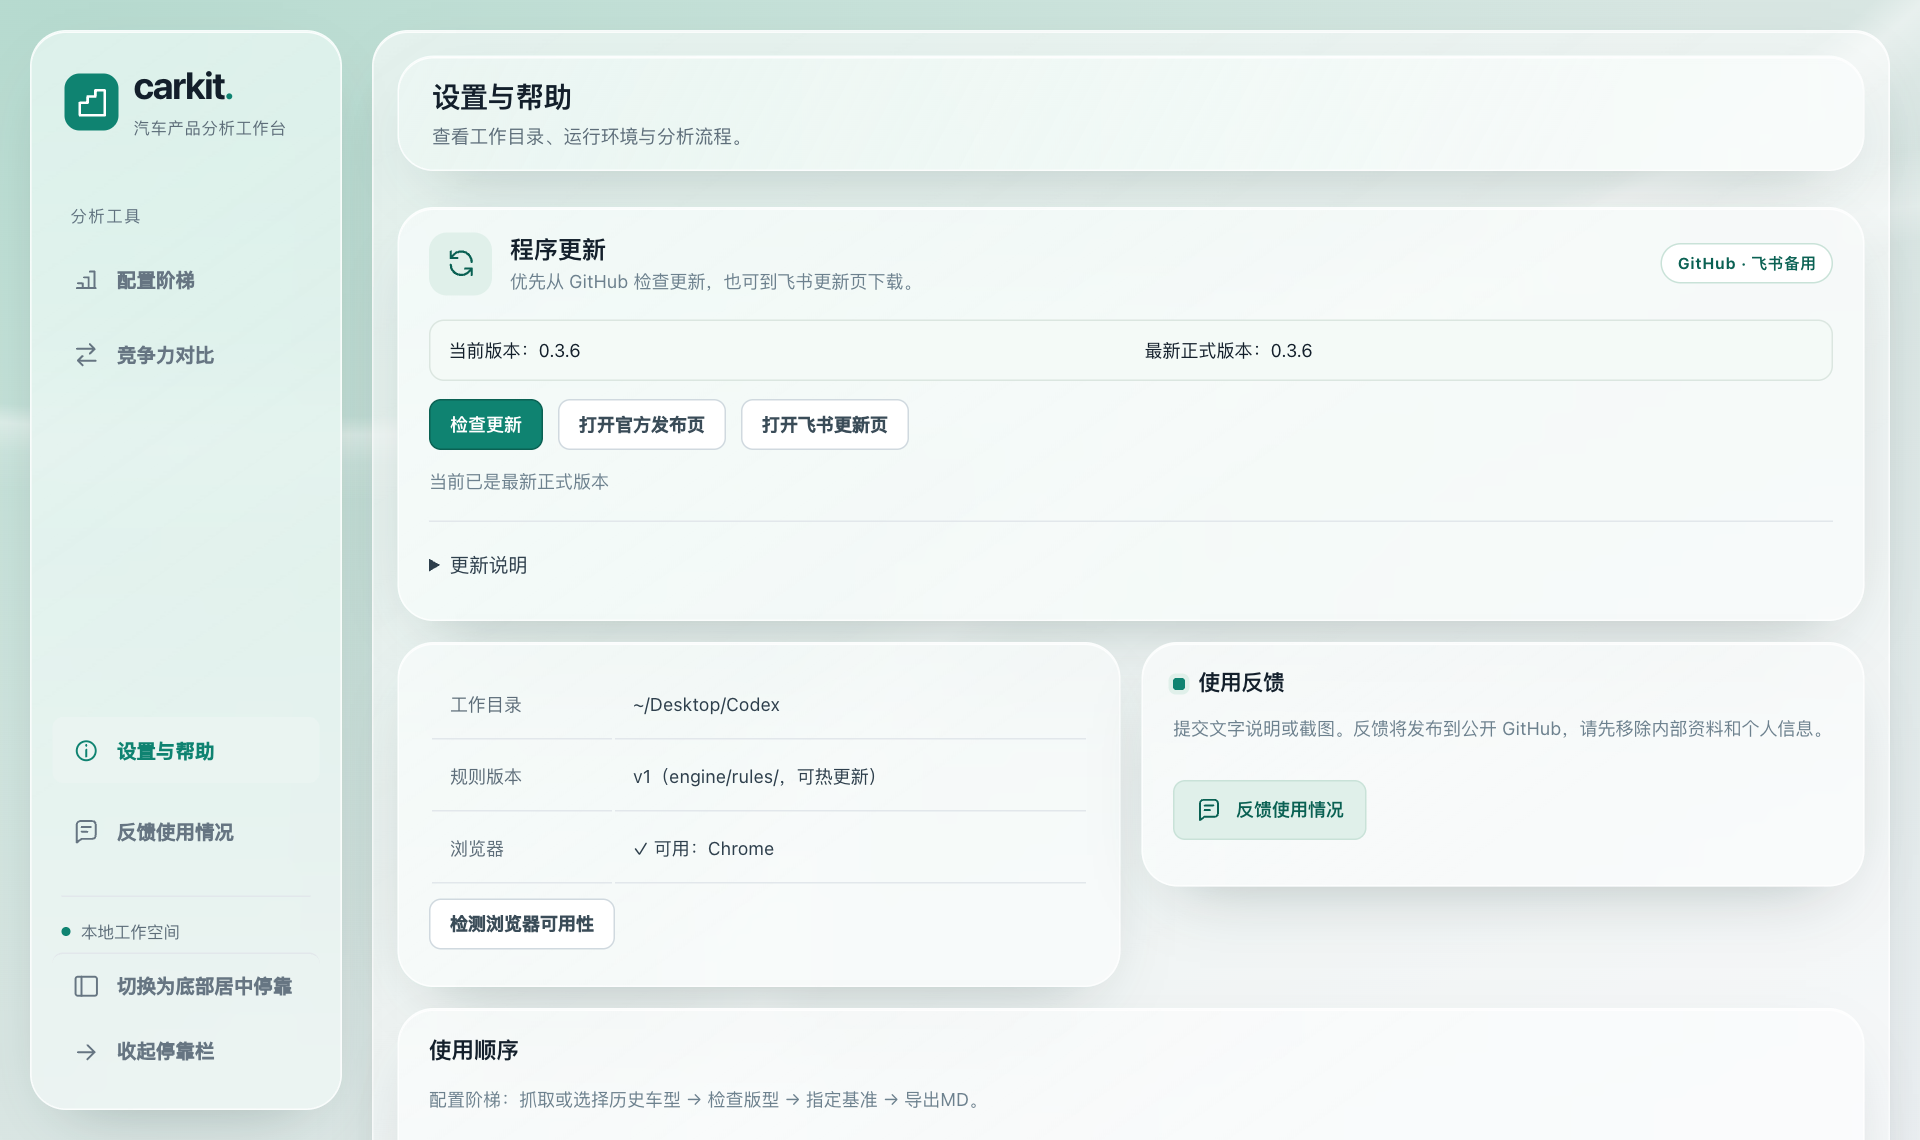
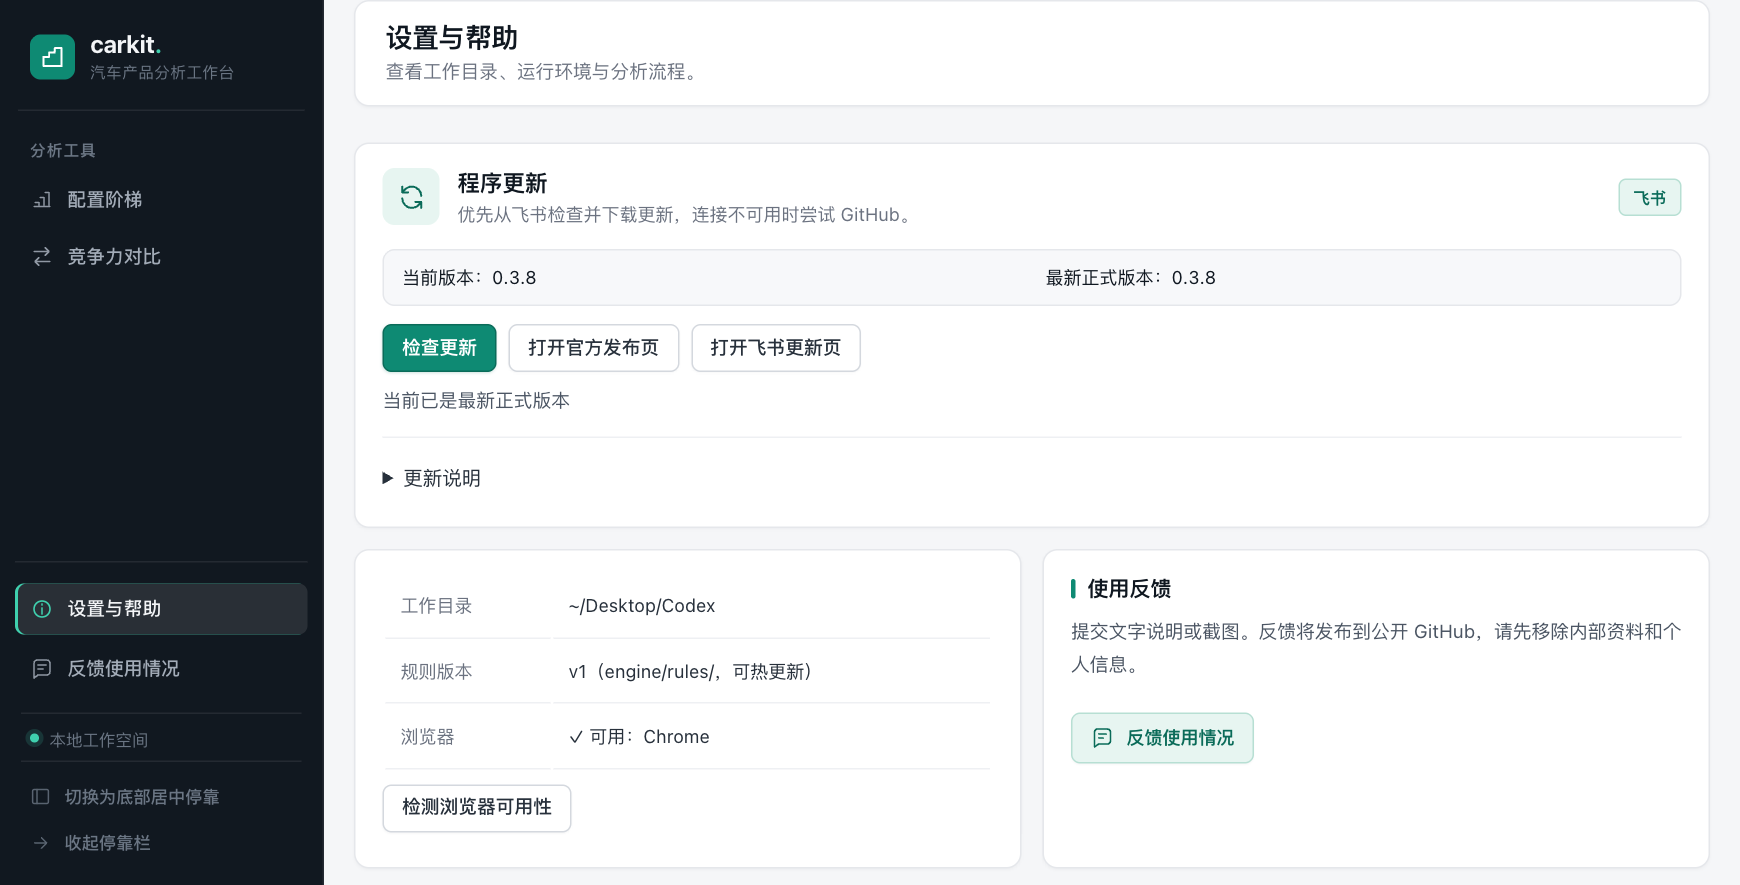
更新 Carkit README 和产品说明

diff --git a/README.md b/README.md
@@ -1,119 +1,96 @@
 # Carkit · 汽车产品分析工作台
 
-Carkit 是一款车型配置对比工具。想知道同一款车的高配多了什么，或者两款车看起来价格接近、配置差在哪，都可以用它来整理。程序还能按你的计价规则把差异折成金额，再把两车的价格差一起算进去。
+[下载最新版（GitHub）](https://github.com/a18012239736-rgb/carkit/releases/latest) · [飞书下载与更新说明](https://my.feishu.cn/wiki/RbVTwWOJFiCjOukyBO8csx2Rnwd) · [反馈问题](https://github.com/a18012239736-rgb/carkit/issues)
 
-- **看同一车系的不同版本（版型）**：从汽车之家读取配置，选一个版本作基准，看其他版本多了什么、少了什么、还能选装什么。
-- **对比两款车**：导入本品配置 PPT 或手动录入，选定两侧版型并按统一规则赋值；也可以比较两款竞品。
-- **交付或复用结果**：导出 Markdown、Excel，或保存对比方案，下次接着改。
+## 关于 Carkit
 
-程序默认使用深色固定左侧文字菜单，名称常显；也可以通过菜单底部的位置按钮切换为屏幕底部居中的深色浮动命令栏。底部模式只显示图标，悬停或用键盘聚焦时名称显示在上方，当前页图标下方有高亮圆点。程序会记住选择的位置；收起按钮可暂时隐藏菜单。第一次打开时，只想看一款车就从「配置阶梯」开始；手里已有本品配置 PPT，就进入「竞争力对比 → 本品配置」。下面的界面截图使用虚构车型，价格和配置仅用来演示。
+Carkit 是一款面向汽车产品、竞品和上市分析的桌面工具。做单车分析时，可以从汽车之家读取一款车的配置，看各个版型相对基准多了什么、少了什么。做竞品对比时，可以导入自己的产品配置，手动选出要比的两款版型，按同一套规则把配置差异折算成金额。结果可以导出成 Excel 或 Markdown，也可以保存成方案，下次接着做。
+
+工作数据默认保存在本机。程序里的版本号、工作目录、检查更新和反馈入口都在「设置与帮助」。下面的车型、配置、价格和更新状态均为界面示例。
 
 ## 下载与安装
 
-从 [GitHub 最新正式发布页](https://github.com/a18012239736-rgb/carkit/releases/latest) 的 **Assets（附件）** 选择对应文件。`<版本>` 会显示为实际版本号。
+打开 [GitHub 最新发布页](https://github.com/a18012239736-rgb/carkit/releases/latest)，在 **Assets（附件）** 中选对应文件。GitHub 连不上时，可以从 [飞书更新页](https://my.feishu.cn/wiki/RbVTwWOJFiCjOukyBO8csx2Rnwd) 下载。`<版本>` 在文件名里会换成实际版本号。
 
-| 电脑 | 下载文件 | 怎么用 |
+| 你的电脑 | 选哪个文件 | 怎么打开 |
 | --- | --- | --- |
-| Windows x64，日常使用 | `carkit-<版本>-setup.exe` | 双击安装。后续可以在程序内下载并安装更新。 |
-| Windows x64，免安装 | `carkit-<版本>.exe` 或 `carkit.exe` | 双击运行。更新时下载并启动新版 EXE。 |
-| Mac，Apple 芯片（M 系列） | `carkit-<版本>-macos-arm64.dmg` | 打开 DMG，把 `carkit.app` 拖入「应用程序」。 |
+| Windows x64，日常使用 | `carkit-<版本>-setup.exe` | 双击安装。之后可以在程序里下载并安装新版。 |
+| Windows x64，免安装 | `carkit-<版本>.exe` 或 `carkit.exe` | 双击运行。两种文件名对应同一个便携包。 |
+| Mac，Apple 芯片（M 系列） | `carkit-<版本>-macos-arm64.dmg` | 打开 DMG，把 `carkit.app` 拖到「应用程序」。 |
 
-不知道 Mac 用哪种芯片时，打开「 → 关于本机」，查看「芯片」或「处理器」。发布的 macOS 包尚未经过 Apple 公证；如果公司设备限制安装，请联系管理员。
+安装包可直接使用，无需另装 Python。Windows 界面依赖 **WebView2 Runtime**。读取汽车之家配置需要 Edge 或 Chrome，可以在「设置与帮助」点击「检测浏览器可用性」。Mac 可通过「 → 关于本机」确认芯片类型，目前提供 Apple 芯片版，安装包尚未经过 Apple 公证。
 
-使用安装包无需另外安装 Python。Windows 界面依赖 **WebView2 Runtime**；在线读取汽车之家配置需要 **Edge 或 Chrome**，可在「设置与帮助」点击「检测浏览器可用性」。程序默认使用桌面上的 `Codex` 文件夹，实际路径也可在「设置与帮助」查看。
+## 配置阶梯 · 看同一款车的高低配差异
 
-## 配置阶梯
+![配置阶梯示例：并排查看版型指导价、价差、配置变化和选装](docs/images/配置阶梯.png)
 
-![配置阶梯：并排查看各版型指导价及相对基准的配置变化](docs/images/配置阶梯.png)
+1. 在「配置阶梯」输入车型名或汽车之家配置页网址，点击「搜索车型」。出现「选择抓取条件」时，按需选年款等条件，再点「开始抓取」。已读取过的车型可以从「打开历史车型」找回。
+2. 在「确认版型与比较基准」中勾选要输出的版型，选择「基本版型」，再给其他版型指定基准。多个版型可以共用同一个基准，也可以各自选择参照。
+3. 点击「查看配置阶梯图」，查看指导价、相对基准的价差和配置变化。卡片上的「完整配置」可以展开本版型的配置，选装在卡片下方单列。需要发给同事时，可导出 Markdown 或 Excel。
 
-1. **选车。** 在「配置阶梯」输入车型名称、车系编号或汽车之家配置页网址，点击「搜索车型」。按提示选择车系；出现「选择抓取条件」时，选好年款等条件后点击「开始抓取」。已有记录时，也可以直接点击「打开历史车型」。
-2. **确认读到的配置。** 如果汽车之家要求验证，在打开的浏览器里完成验证，等配置表加载后回到程序，点击「验证后继续读取」。需要逐项核对时，点击「查看完整配置」。
-3. **选输出和比较基准。** 在「确认版型与比较基准」勾选要输出的版型，再选择「基本版型」和后续版型各自的比较基准。例如，舒适型可以与基础型比较，高配型可以与舒适型比较。也可以让多个版型都和同一个基准比较。
-4. **查看或导出。** 在「预览与导出」点击「查看配置阶梯图」。卡片顶部是指导价（万元），下面按所选基准列出配置增加和取消，选装单列。点击「导出配置阶梯 Markdown」或「导出 Excel」保存结果。
+版型太多时，可以拖动「左右查看」滑杆，或用卡片上的箭头调整显示顺序。想改变导出的比较关系，请回到版型设置调整基准。
 
-如果不想在结果里看到某些项目，展开「不展示的配置」，搜索或按分类勾选，再点击「保存不展示清单」。同一工作目录里的车型共用这份清单；阶梯图及两种导出格式一起生效，原始配置和竞争力赋值不受影响。已生成的结果需重新查看或导出。
+想精简结果时，展开「不展示的配置」，**勾选要隐藏的配置**，点击「保存不展示清单」，再打开阶梯图或重新导出。这份清单应用于同一工作目录内各车型的阶梯图和导出。原始配置、竞争力赋值和已导出的文件保留原状。
 
-版型太多时，可拖动窗口底部的「左右查看」滑杆。卡片上的「完整配置」可原位展开该版型的原始配置，收起后回到原来的位置。卡片左移或右移只调整当前显示顺序；要改变导出的比较关系，请回到版型设置。
+## 竞争力对比 · 算两款车差多少钱
 
-## 竞争力对比
+![竞争力对比示例：配对版型后查看配置优势、拉平指导价优势和综合竞争力](docs/images/竞争力对比.png)
 
-![竞争力对比：版型配对后的配置优势、拉平指导价优势和综合竞争力](docs/images/竞争力对比.png)
+「本品」是你正在评估的车，「竞品」是用来作参照的车。已有两款竞品时，也可以直接互比。
 
-「本品」是你正在评估的车型，「竞品」是拿来作参照的车型。没有本品资料时，也可以直接拿两款已经读取过的车型互相比。
+1. **准备车型。** 先在「配置阶梯」读取竞品。自己的车型可在「竞争力对比 → 本品配置」导入 PPT，也可手动录入。导入时选中配置阶梯页，点击「解析这一页」，核对版型、价格和继承关系，展开完整配置确认后保存。指导价以万元填写，例如 `11.98`。待确定的价格和 TP 价格需要先核对口径。选装可在版型配置中每行填写一项，单独展示，不参与赋值。
+2. **配对版型。** 回到「对比」页签，选「本品 vs 竞品」或「竞品 vs 竞品」。左侧是要评估的车，右侧是参照。只挑实际需要比较的版型，想同时算多组时点「添加配对组」。
+3. **填实际比较的底价。** 两侧底价按同一口径填写，单位是元，例如 `110000`。底价可留空。此时可以看配置优势，双方指导价都填好时也可以看拉平指导价优势。
+4. **核对并交付。** 点击「开始对比」，查看顶部结论和对比表。「待核清单」会提示需要补充的项目。「配置项判定明细 → 查看依据」可核对原文、识别值、标配或选装、人工修正及计算规则。你可以修正配置后重算，或把结果导出成 Markdown 或 Excel。
+5. **下次继续。** 点「保存当前方案」保留配置、配对、价格、规则和结果。下次用「打开已保存方案」载入工作副本后继续改或另存。
 
-「竞争力对比」里有「对比」「本品配置」「赋值规则」三个子页签，可在同一个工作区准备数据、配对版型和调整规则。
+### 怎么读这三个金额
 
-1. **准备车型。** 竞品可从「配置阶梯」抓取后复用。要比较本品，在「竞争力对比 → 本品配置」点击「导入本品PPT…」或「手动添加本品配置」。如果导入 PPT，先选配置阶梯页，再点「解析这一页」。核对版型、价格口径和继承关系，点「展开为完整配置，进入核对」，检查完整配置并勾选确认后，点「确认并保存本品配置」。指导价以万元填写，例如 `11.98`；标为 TP 价格或未确定的价格不会直接当作指导价使用。
-2. **选择左右侧。** 回到「对比」子页签，选择「本品 vs 竞品」或「竞品 vs 竞品」，左侧是要判断的车型，右侧是参照。可用「修改本品配置」或「修改竞品配置」补充和更正数据，保存修正后再对比。
-3. **手动配对。** 选择双方要比较的版型；用「添加配对组」一次比较多组。要算拉平底价优势，按同一口径填写两边的底价，单位是元，例如 `110000`。底价可以留空，此时仍可看配置优势；两边指导价齐全时也能看拉平指导价优势。
-4. **运行并核对。** 点击「开始对比」。先看「待核清单」和「竞争力对比表」，再展开「配置项判定明细」，通过「查看依据」核对原文、标配或选装状态、识别值、人工修正和计价规则。改动配置、配对、价格或规则后，重新运行再导出。
-5. **导出或继续做。** 结果可导出 Markdown 或 Excel。填写方案名称并点击「保存当前方案」，可保存本次配置、配对、价格、规则和结果；下次从「打开已保存方案」载入独立工作副本，再修改或另存。
+正数表示左侧占优，负数表示右侧占优。以上图第一组为例，左侧少了 800 元的配置价值，指导价便宜 3,000 元，填入的底价便宜 1,500 元。
 
-### 怎么读结果
-
-金额为正表示左侧占优，为负表示右侧占优。以上图第一组为例：左侧舒享版少了电动后备箱，按规则少 800 元配置价值；但左侧指导价便宜 3,000 元，填入的底价也便宜 1,500 元。三个数字回答的是不同问题：
-
-| 指标 | 想知道什么 | 图中结果 |
+| 指标 | 怎么理解 | 示例 |
 | --- | --- | ---: |
-| 配置优势 | 只看配置，左侧多值或少值多少钱？ | −800 元 |
-| 拉平指导价优势 | 把指导价差也算进去，左侧还占优吗？ | −800 + 3,000 = 2,200 元 |
-| 综合竞争力（拉平底价优势） | 按这次填的底价算，左侧还占优吗？ | −800 + 1,500 = 700 元 |
+| 配置优势 | 左侧的配置价值比右侧多或少多少 | −800 元 |
+| 拉平指导价优势 | 配置优势 + 右侧指导价 − 左侧指导价 | 2,200 元 |
+| 综合竞争力（拉平底价优势） | 配置优势 + 右侧底价 − 左侧底价 | 700 元 |
 
-`✕` 表示没有该配置，`[待定]` 表示还未确认。待定和选装不按标配计入赋值；数量未知、未匹配或没有计价规则的项目，可到「待核清单」检查。
+这三个金额用来分析配置和价格差异。比较前，请确认两侧价格的统计口径一致。选装和 `[待定]` 配置不会当作标配计价。未识别、数量不明或缺少规则的项目可先到「待核清单」核对。
 
-## 赋值规则
+### 如何改计价规则
 
-在「竞争力对比 → 赋值规则」可调整金额、档位、单位价格和阈值，点「保存并立即应用」后用于后续对比。也可以「从 Excel / JSON 导入…」「保存并导出规则 Excel」或「恢复内置默认值」。灰色项目不纳入本轮计价，原始配置仍可查看。
+进入「竞争力对比 → 赋值规则」，修改某项配置的金额或计价档位，点「保存并立即应用」后再重算。也可以从 Excel 或 JSON 导入规则、导出规则 Excel，或恢复内置默认值。
 
-例如，内置规则中普通电动后备箱计 800 元，标配感应功能额外计 400 元，位置记忆不另加价。修改规则后，实际结果以对比时使用的规则和配置为准。
+例如，默认普通电动后备箱计 800 元，标配感应功能额外计 400 元，位置记忆不另加价。对比时以当时使用的规则和确认过的配置为准。
 
-## 程序更新
+## 检查更新
 
-![程序更新：查看当前版本、检查新版并选择 GitHub 或飞书入口](docs/images/程序更新.png)
+![程序更新：在设置与帮助查看版本、检查更新及打开下载页](docs/images/程序更新.png)
 
-程序启动后优先从飞书更新文档检查正式版，连接不可用时尝试 GitHub；也可在「设置与帮助 → 程序更新」点击「检查更新」。发现版本号更高的正式版才会提示更新；「更新说明」可查看这一版改了什么，渠道标记会显示本次使用飞书还是 GitHub。程序会验证飞书更新信息的签名和安装包的 SHA-256。
+程序启动时会检查更新。飞书是首选更新渠道，飞书连接不可用时会尝试 GitHub。也可以到「设置与帮助 → 程序更新」点「检查更新」。出现更高版本号的正式版才会提示升级。展开「更新说明」可看这一版改了什么。
 
-暂时不想升级时，点击提醒横幅中的「忽略此版本」。程序会记住这个版本，重新打开也不再提醒；后续出现更高版本时会再次提示。想恢复提醒，可进入「设置与帮助 → 程序更新」点击「恢复提醒」。忽略提醒后仍可手动检查和下载更新。
+- **Windows 安装版**：保存工作后点「下载并安装」。程序校验发布清单和安装包，完成安装后会用原工作目录重新打开。
+- **Windows 便携版**：点「下载新版」，保存工作并退出旧版，再打开新版 EXE。
+- **Apple 芯片 Mac**：下载后点「打开安装包」，退出旧版，再把新版拖到「应用程序」替换。
+- **更新入口连不上**：点「打开飞书更新页」或「打开官方发布页」，手动下载对应安装包。
 
-- **Windows 安装版：** 保存工作后点击「下载并安装」。程序会校验发布清单签名和安装包，安装完成后按原工作目录重新打开。
-- **Windows 便携版：** 点击「下载新版」。下载完成后保存工作、退出旧版，再运行新版 EXE。想使用程序内安装更新，可以先运行一次 `-setup.exe` 安装版。
-- **Apple 芯片 Mac：** 点击「下载新版」。下载完成后点击「打开安装包」，退出旧版，把新版拖入「应用程序」替换。
-- **程序内更新无法连接：** 点击「打开飞书更新页」手动下载对应系统的安装包。更新文档和附件已开放链接阅读与下载。
+点击「忽略此版本」可关闭当前版本的提醒。更高版本发布后会再次提示，你也可以在更新设置中点「恢复提醒」。版本历史见 [GitHub Releases](https://github.com/a18012239736-rgb/carkit/releases)，当前界面更新见 [v0.3.8 说明](docs/release-v0.3.8.md)。
 
-[查看最新发布与更新日志](https://github.com/a18012239736-rgb/carkit/releases/latest) · [v0.3.8](docs/release-v0.3.8.md) · [v0.3.7](docs/release-v0.3.7.md) · [v0.3.6](docs/release-v0.3.6.md) · [v0.3.5](docs/release-v0.3.5.md) · [v0.3.4](docs/release-v0.3.4.md) · [v0.3.3](docs/release-v0.3.3.md) · [v0.3.2](docs/release-v0.3.2.md) · [v0.3.1](docs/release-v0.3.1.md)
+## 备份、恢复与反馈
 
-## 工作目录与恢复
+- **换电脑或重装**：在「设置与帮助」找到工作目录，备份整个文件夹。默认位置为桌面上的 `Codex` 文件夹。原始配置在 `raw/`，本品快照在 `快照/`，计价规则在 `赋值/`，保存的对比在 `方案/`，分析结果在 `结果/`。
+- **误删车型或本品**：在工作目录的 `回收站/` 查找对应文件，将它移回原目录并刷新列表。
+- **汽车之家要求验证**：在程序打开的浏览器里完成验证，等配置表加载出来，再回到程序点击「验证后继续读取」。
+- **Windows 启动出现白屏**：先确认 WebView2 Runtime 已安装。便携版提示缺少运行文件时，可重新下载最新版单文件 EXE，或改用安装版。
+- **反馈问题**：在导航栏或「设置与帮助」点「反馈使用情况」，填写复现步骤、预期和实际结果，可附 PNG 或 JPEG 截图。点「准备反馈并前往GitHub」后，在打开的页面核对文字、上传附件并提交。GitHub Issues 公开可见，提交前请移除内部资料和个人信息。
 
-工作数据保存在本机。换电脑前，可先备份「设置与帮助」显示的整个工作目录；更新时继续使用原工作目录即可。
+## 从源码运行
 
-| 目录 | 内容 |
-| --- | --- |
-| `raw/` | 汽车之家原始配置和历史车型 |
-| `阶梯/` | 竞品配置阶梯及修正副本 |
-| `快照/` | 本品配置 |
-| `赋值/` | 赋值规则和模板 |
-| `方案/` | 保存的对比方案及工作副本 |
-| `结果/` | 保存在工作目录中的导出结果 |
-| `反馈/` | 本地准备的反馈文字和截图 |
-| `回收站/` | 从界面删除后可恢复的文件 |
+使用 Python 3.12，前端回归检查还需要 Node.js。安装依赖后，可从源码打开程序或运行测试。
 
-误删历史车型或本品时，可在 `回收站/` 找到对应文件，将它移回原目录，再刷新列表。
-
-## 反馈与常见问题
-
-- **反馈问题：** 点击玻璃停靠栏或设置里的「反馈使用情况」。填写标题，描述复现步骤、预期和实际结果，或附截图（最多 3 张 PNG/JPEG，单张不超过 5 MB，合计不超过 10 MB）。点击「准备反馈并前往GitHub」后，在打开的 GitHub 页面核对文字、上传截图，再自行提交。GitHub Issues 公开可见，请先删除截图和文字里的内部资料及个人信息。
-- **Windows 打开白屏：** 检查是否安装了 Microsoft Edge WebView2 Runtime。如果提示缺少 `_internal\python312.dll`，从发布页下载当前单文件 EXE 或安装版。
-- **找不到车型配置：** 先确认浏览器里已经加载完整配置表并完成网站验证，再回到程序点击「验证后继续读取」。此前抓取过的车型也可以从「打开历史车型」查看。
-- **结果里金额不完整：** 先看「待核清单」是否有未确认的配置或缺失规则。拉平指导价和拉平底价分别需要两侧同口径的指导价和底价。
-
-## 本地开发与打包
-
-开发使用 Python 3.12；前端回归检查还需要 Node.js。安装依赖后即可从源码启动或运行测试：
-
-```text
+```sh
 python -m pip install -e ".[gui,scrape,dev]"
 python app.py
 python -m pytest tests -q
 ```
 
-需要构建 Windows EXE 或安装器时，见 [Windows 构建指南](docs/windows-dev.md)。GitHub Actions 在 Windows 和 Apple 芯片 Mac 上构建安装包。
+打包细节见 [Windows 构建指南](docs/windows-dev.md)。GitHub Actions 提供 Windows 和 Apple 芯片 Mac 的发布构建任务。
